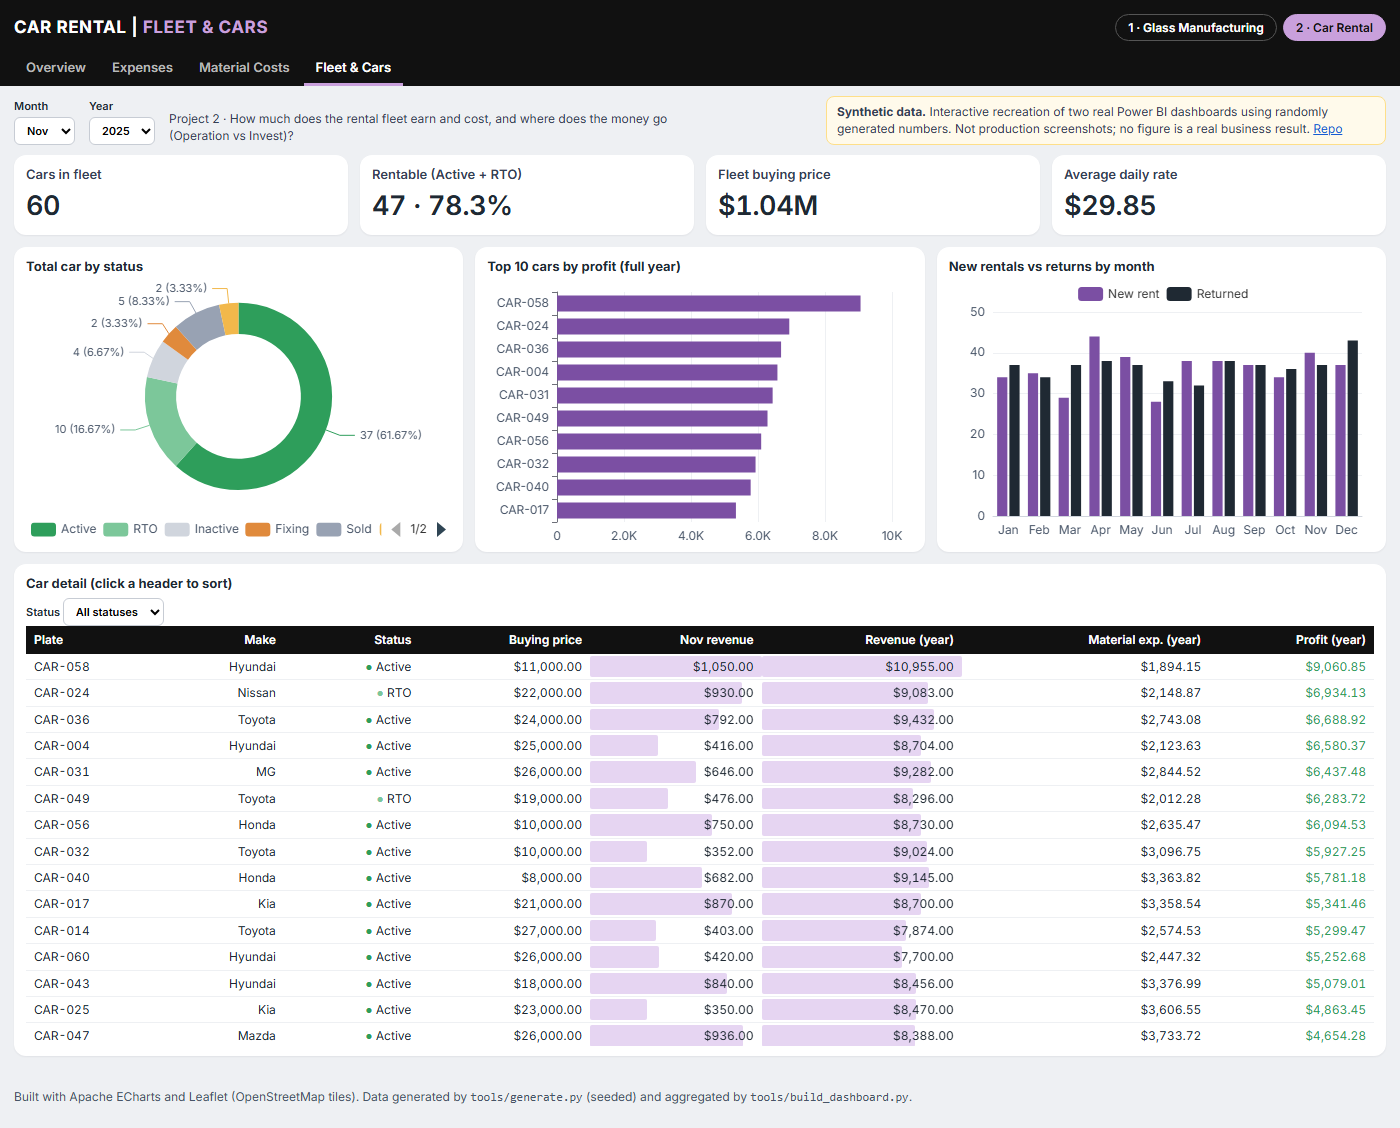
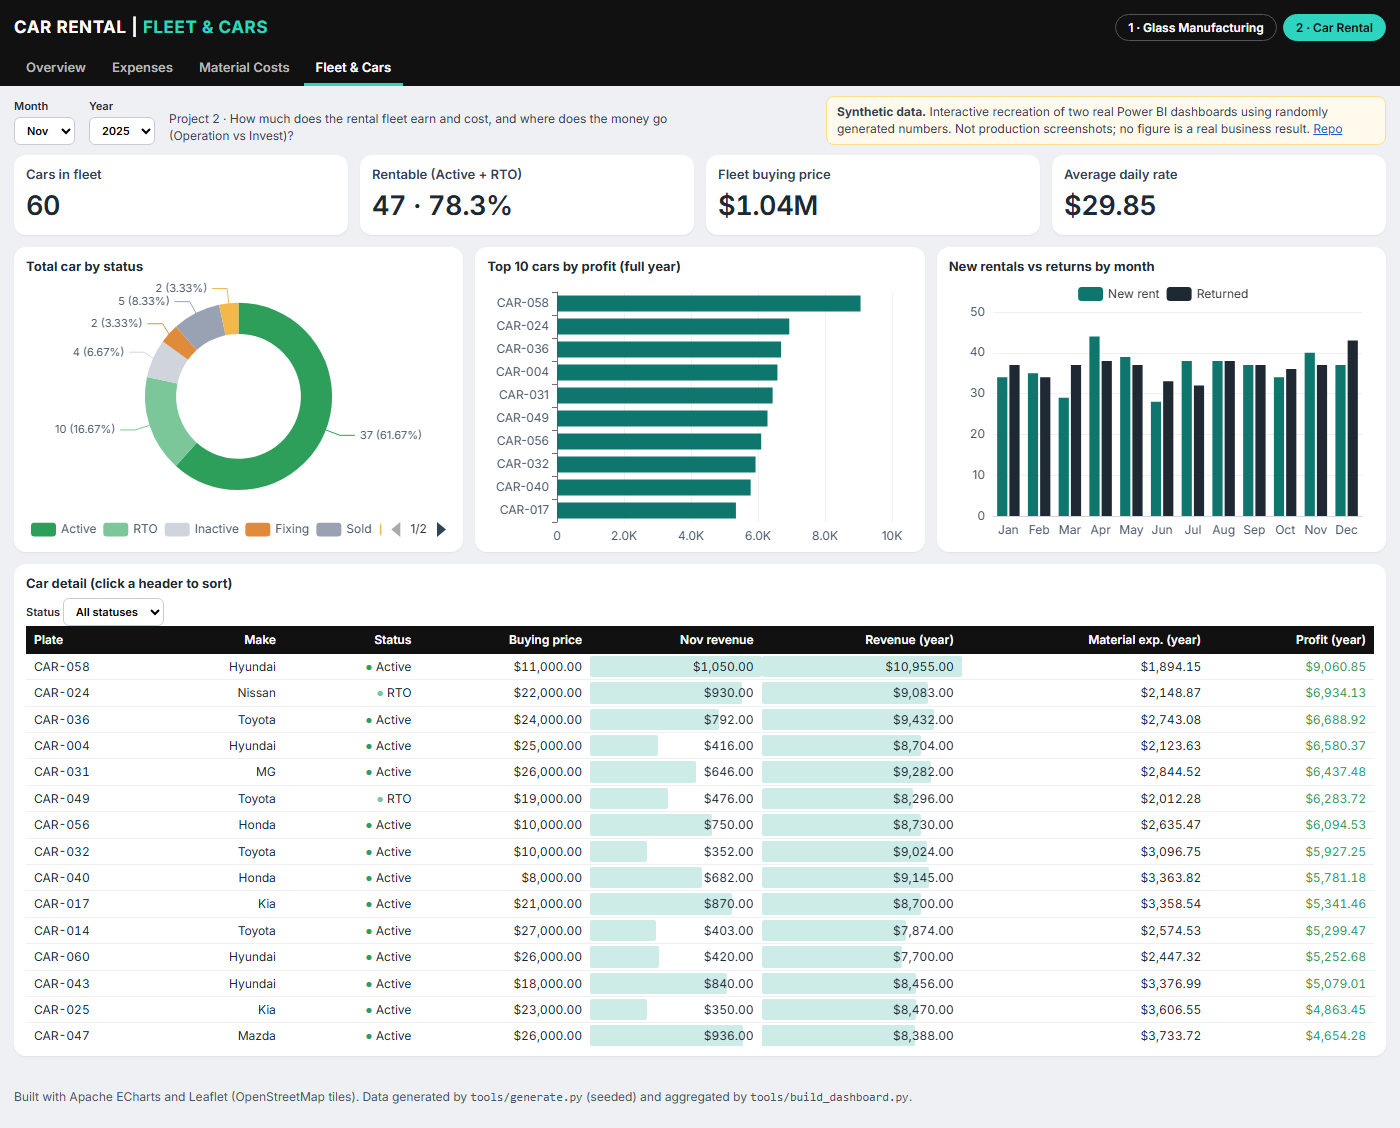
Car rental dashboard: switch accent theme from purple to teal; refresh screenshots and docs

diff --git a/docs/index.html b/docs/index.html
@@ -12,7 +12,7 @@
 <style>
   /* Color system: one accent per project, neutral greys, green/red only for good/bad */
   :root{--ink:#1f2933;--muted:#667085;--line:#e4e7ec;--card:#fff;--accent:#e8590c;--page:#eef0f3;--good:#2e9e5b;--bad:#d64545}
-  body.t-fleet{--accent:#c9a0dc}
+  body.t-fleet{--accent:#2dd4bf}
   *{box-sizing:border-box}
   body{margin:0;min-height:100vh;background:var(--page);color:var(--ink);font-family:"Inter","Segoe UI",system-ui,-apple-system,Roboto,sans-serif;font-size:13px;line-height:1.45;font-feature-settings:"cv11","ss01";-webkit-font-smoothing:antialiased}
   button,select,input{font-family:inherit}
@@ -300,8 +300,8 @@ window.BI={D:window.DATA,T:T,MN:MN,$:$,pad:pad,dim:dim,dk:dk,mo:mo,sum:sum,usd:u
 (function(){
 "use strict";
 var B=window.BI,D=B.D,T=B.T,MN=B.MN,$=B.$,dim=B.dim,mo=B.mo,sum=B.sum,usd=B.usd,kk=B.kk,dlt=B.dlt,dayArr=B.dayArr,add=B.add,ch=B.ch,opt=B.opt,AX=B.AX,xcat=B.xcat,yval=B.yval,GR=B.GR,kpi=B.kpi,tbl=B.tbl,donut=B.donut,stacked=B.stacked,charts=B.charts;
-/* purple accent system: sales = purple, expenses = ink */
-var ACC="#7b4fa3",MID="#b58cd6",TINT="#e6d5f2",INK=T.ink,GRAY=T.gray;
+/* teal accent system: sales = teal, expenses = ink */
+var ACC="#0f766e",MID="#5fb7ae",TINT="#cdebe7",INK=T.ink,GRAY=T.gray,AMBER="#f59e0b";
 function pc(x){return (x*100).toFixed(1)+"%";}
 function f2(v){return usd(v,true);}
 function days(m){var a=[];for(var d=1;d<=dim(m);d++)a.push(d);return a;}
@@ -318,7 +318,7 @@ function cMonth(m){var s=dayArr(CRV,m),e=dayArr(CEX,m),p=s.map(function(x,i){ret
 function ctot(m){var s=0;for(var k in CG[m])s+=CG[m][k];return s;}
 var GCOL={HR:INK,Material:ACC,MKT:MID,Office:GRAY},GORD=["HR","Material","MKT","Office"];
 var TCOL={Operation:INK,Invest:ACC};
-var MCOL={Rego:"#4b2a7a",Parts:ACC,Others:"#a47cc8",Operation:"#c9a0dc",Tax:GRAY,Rent:T.gray2};
+var MCOL={Rego:"#0b4f4a",Parts:ACC,Others:"#35a79d",Operation:"#7fcfc7",Tax:GRAY,Rent:T.gray2};
 var SCOL={Active:T.good,RTO:"#7cc79a",Holding:"#f2b84b",Fixing:"#e08a3c",Sold:GRAY,Lost:T.bad,Inactive:T.gray2};
 var rentable=C.cars.filter(function(c){return c[3]==="Active"||c[3]==="RTO";}).length;
 
@@ -337,12 +337,12 @@ function renderOver(m){
       markPoint:{data:[{type:"max"},{type:"min"}],symbolSize:44,label:{formatter:function(q){return kk(q.value);},fontSize:10,color:"#fff"},itemStyle:{color:ACC}}}]});
   var from=Math.max(1,m-5),cats=[],sv=[],ev=[],mg=[];
   for(var i=from;i<=m;i++){cats.push(MN[i-1]);var s=sum(dayArr(CRV,i)),e=ctot(i);sv.push(Math.round(s));ev.push(Math.round(e));mg.push(s?+((s-e)/s*100).toFixed(1):0);}
-  opt("c-trend6",{tooltip:{trigger:"axis"},legend:{top:0},color:[ACC,INK,T.blue],grid:{left:48,right:44,top:30,bottom:26},xAxis:xcat(cats),
+  opt("c-trend6",{tooltip:{trigger:"axis"},legend:{top:0},color:[ACC,INK,AMBER],grid:{left:48,right:44,top:30,bottom:26},xAxis:xcat(cats),
     yAxis:[yval(),{type:"value",axisLabel:{color:"#475467",formatter:"{value}%"},splitLine:{show:false}}],
     series:[{name:"Total sales",type:"bar",data:sv},{name:"Total expenses",type:"bar",data:ev},{name:"Profit margin %",type:"line",yAxisIndex:1,smooth:true,data:mg,label:{show:true,formatter:"{c}%",fontSize:10}}]});
   var g=CG[m],opx=(CITEMS[m]||[]).filter(function(r){return r[6]==="Operation";}).reduce(function(a,r){return a+r[5];},0);
   var rows=[["Revenue",c.S],["HR",g.HR||0],["Material",g.Material||0],["  of which Operation",opx],["Marketing",g.MKT||0],["Office",g.Office||0],["Profit",c.P]];
-  $("c-summary").innerHTML=tbl([{t:"Item"},{t:"Amount",bar:"#efe4f7",f:f2}],rows.map(function(r){return {v:r,bc:r[0]==="Revenue"?T.goodTint:r[0]==="Profit"?"#cdb0e3":null};}));
+  $("c-summary").innerHTML=tbl([{t:"Item"},{t:"Amount",bar:"#e3f3f1",f:f2}],rows.map(function(r){return {v:r,bc:r[0]==="Revenue"?T.goodTint:r[0]==="Profit"?"#9ed5ce":null};}));
   // debt chart
   var ob=[],pp=[];for(var k=0;k<12;k++){ob.push(Math.round(C.debt[k][1]));pp.push(Math.round(C.debt[k][2]*100));}
   opt("c-debt",{tooltip:{trigger:"axis"},legend:{top:0},color:[MID,INK],grid:{left:48,right:44,top:30,bottom:26},xAxis:xcat(MN),

diff --git a/projects/car-rental-overview-powerbi/README.md b/projects/car-rental-overview-powerbi/README.md
@@ -18,9 +18,9 @@ The report is split into four pages so that each page answers one question:
 | **4 · Fleet & Cars** | Which cars earn their keep? | Fleet by status (Active, RTO, Holding, Fixing, Sold, Lost, Inactive) · top cars by profit · new rentals vs returns by month · sortable per-car table with revenue, material expenses and profit |
 
 ## Design system (why the colors are limited)
-- **One accent color** (purple) for sales and the key measure; expenses are **ink** so income and cost are always distinguishable at a glance.
+- **One accent color** (teal) for sales and the key measure; expenses are **ink** so income and cost are always distinguishable at a glance.
 - **Green and red mean good and bad only**, plus car status where the meaning is natural (green = earning, amber = temporarily not earning, grey = gone, red = lost).
-- Expense groups, Operation vs Invest and material categories use **fixed colors** (purple tints for material categories), the same on every page.
+- Expense groups, Operation vs Invest and material categories use **fixed colors** (teal tints for material categories), the same on every page.
 - Layout: overview first, then one drill-down page per question; the same Month slicer and previous-month comparison on every page; KPI cards that show value, trend and change together; expandable detail table instead of an endless list.
 
 ## Data model

diff --git a/README.md b/README.md
@@ -33,7 +33,7 @@ Manufacturing business selling Premium and Luxury glass products in Sydney (AUD)
 Car rental operation in Sydney (AUD), answering *how much does the fleet earn and cost, and where does the money go?* It is split into **4 pages**: Overview · Expenses (Operation vs Invest) · Material Costs · Fleet & Cars.
 **Tools:** Power BI, DAX, Power Query · **Model:** 60 cars (47 rentable), daily rentals, dated expenses by group and category.
 **What the sample report shows** (synthetic, Nov 2025): sales **A$27.6K** (-9.7% MoM), profit margin **24.2%**, material costs **75%** of expenses, **33 of 47** rentable cars on rent at month end, **85%** of customers paid.
-**Design:** one purple accent with expenses in ink, Operation vs Invest split kept on every expense view, expandable expense detail table, status colors with a natural meaning.
+**Design:** one teal accent with expenses in ink, Operation vs Invest split kept on every expense view, expandable expense detail table, status colors with a natural meaning.
 
 [![Overview](projects/car-rental-overview-powerbi/images/01-overview.png)](projects/car-rental-overview-powerbi/images/01-overview.png)
 [![Expenses](projects/car-rental-overview-powerbi/images/02-expenses.png)](projects/car-rental-overview-powerbi/images/02-expenses.png)
